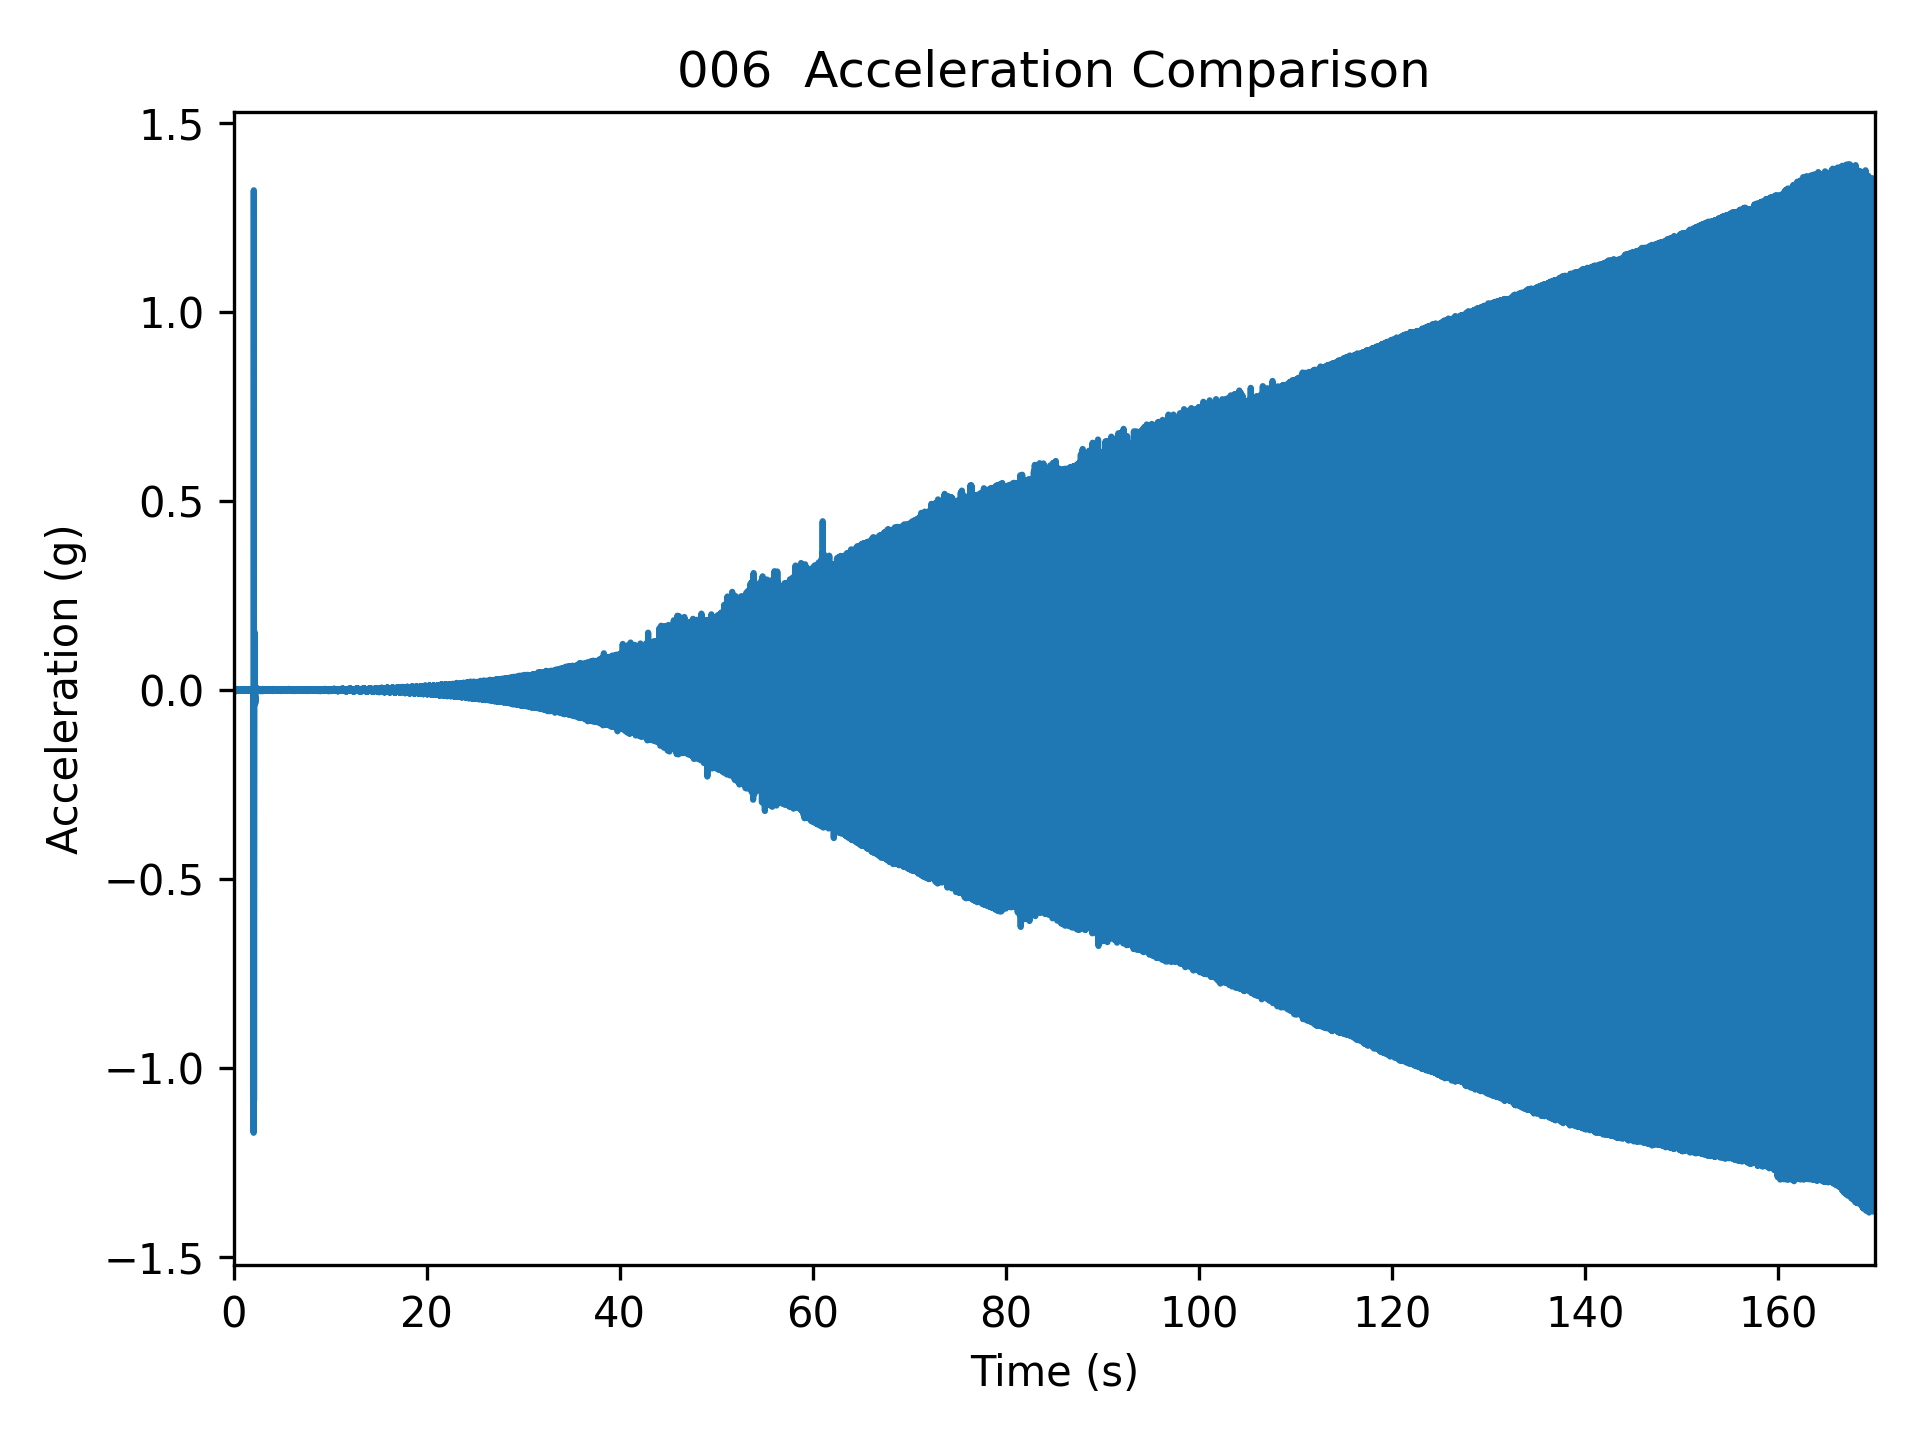
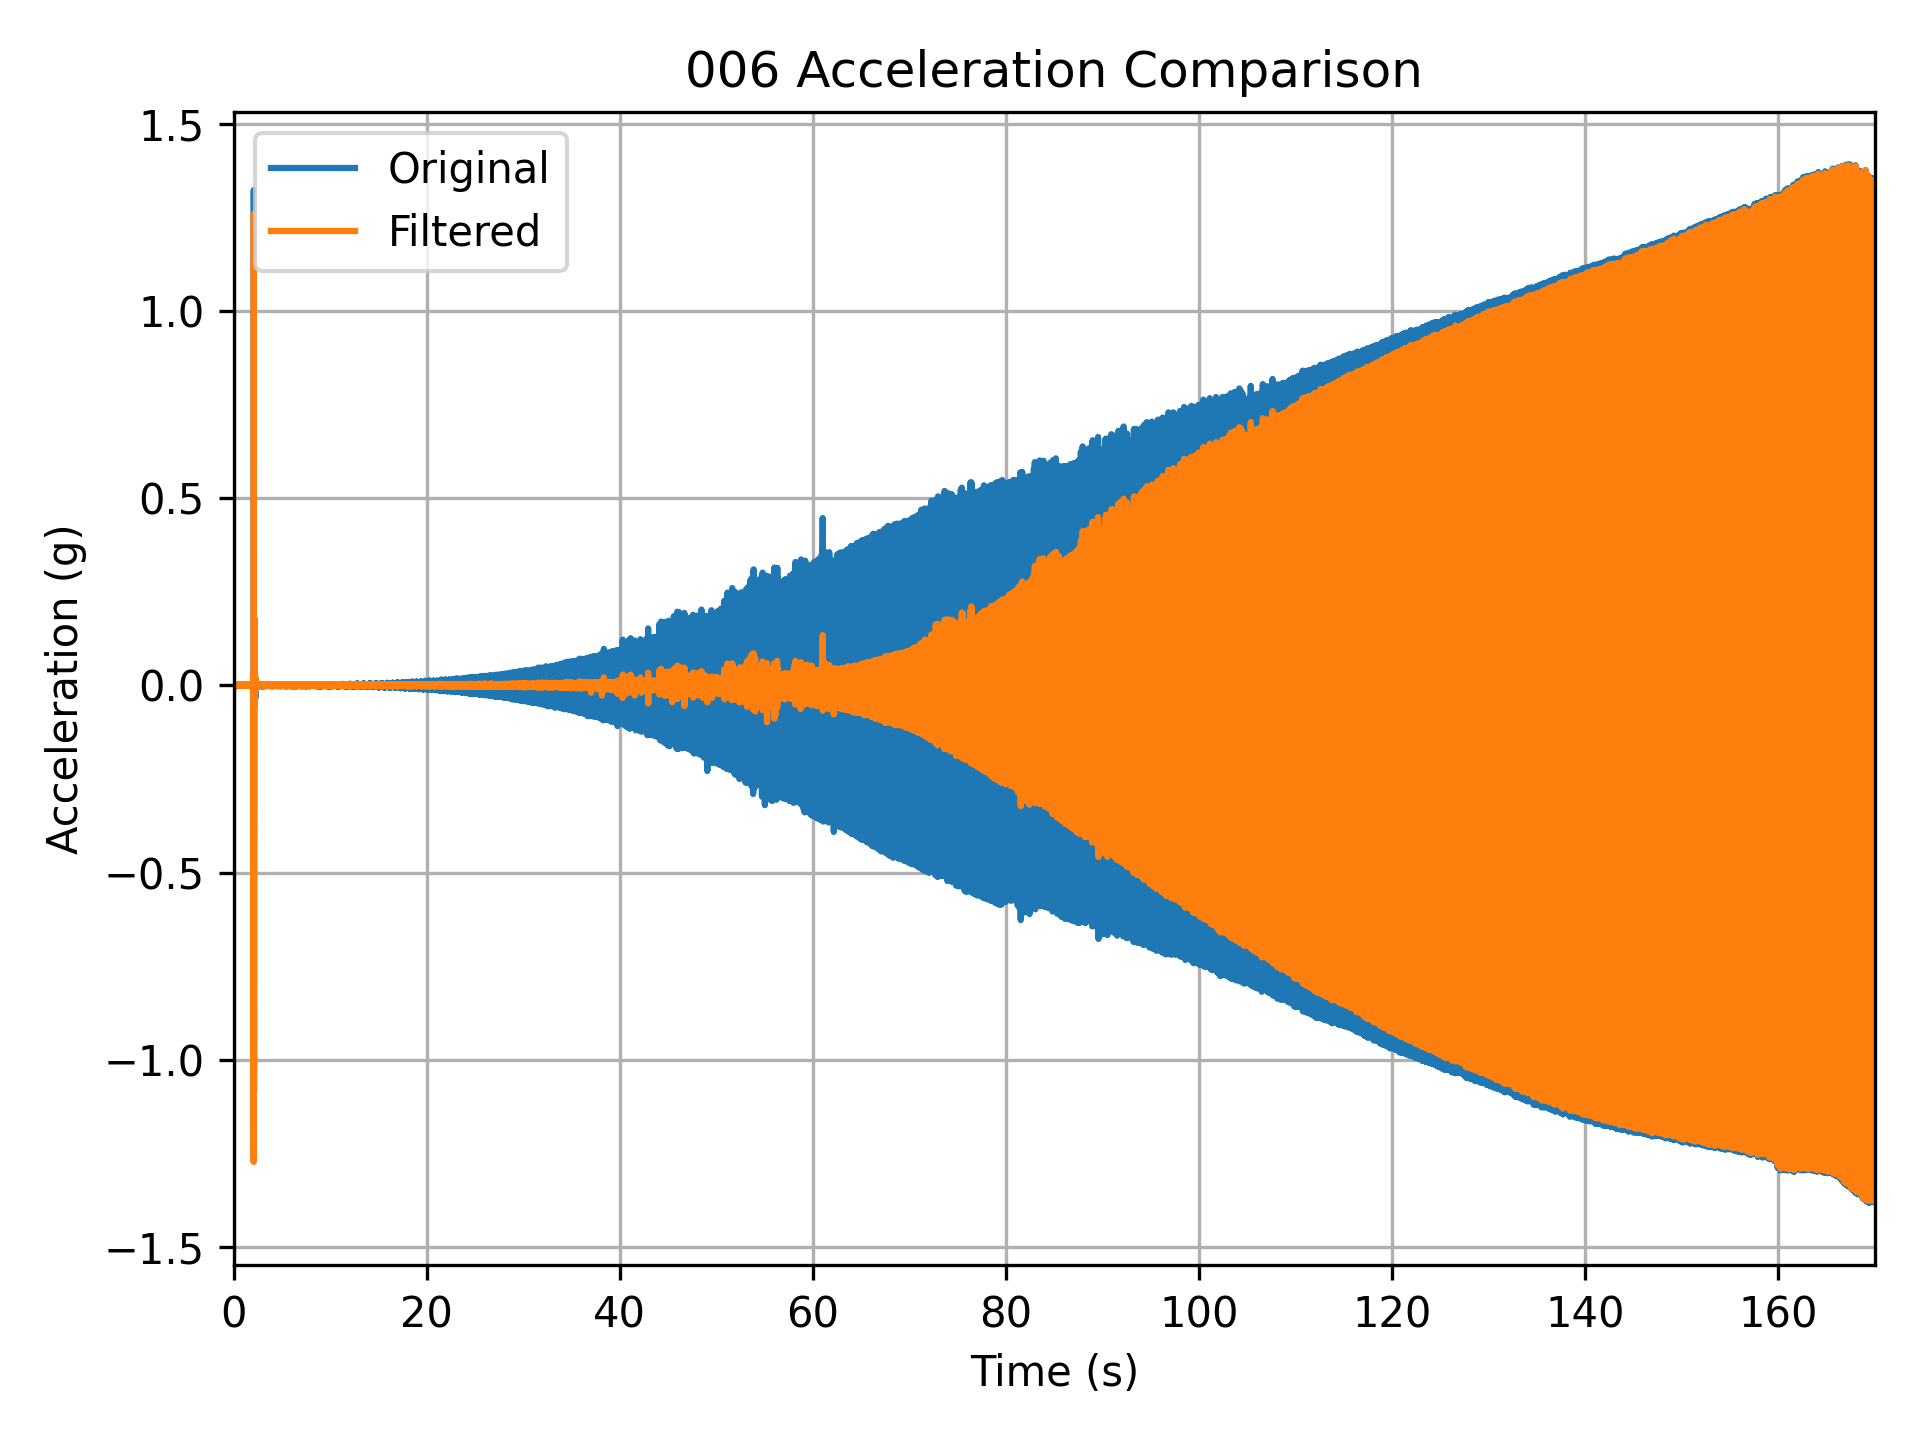
Plotting filtered vs original

diff --git a/system_design/International Gateway/V0.1/Software/Arduino/Shaker Data Collection/dataset_collection/Shaker Data Graphing Code.py b/system_design/International Gateway/V0.1/Software/Arduino/Shaker Data Collection/dataset_collection/Shaker Data Graphing Code.py
@@ -10,7 +10,7 @@ plt.close('all')
 
 
 #%% Load data
-file1 = 'D:/006.csv'
+file1 = 'E:/006.csv'
 
 def highpass_filter(signal, cutoff, fs, order=4):
     # note to self: signal as in acceleration values (ac), 
@@ -41,80 +41,87 @@ def process_data(filepath):
     ac_filtered = highpass_filter(ac, cutoff=10, fs=fs)
 
     # FFT computation
-    N = len(ac_filtered)                         # number of samples
-    Y = np.fft.fft(ac_filtered)         # FFT
-    f = np.fft.fftfreq(N, d=dt)         # frequency vector
+    N = len(ac)                                    # number of samples
+    Y_original = np.fft.fft(ac)
+    Y_filtered = np.fft.fft(ac_filtered)           # FFT
+    f = np.fft.fftfreq(N, d=dt)                    # frequency vector
 
     # Take only positive frequencies
     mask = f >= 0
     f = f[mask]
-    Y = Y[mask]
+    Y_original = Y_original[mask]
+    Y_filtered = Y_filtered[mask]
     # Amplitude (normalize)
-    A = np.abs(Y) / N
+    A_original = np.abs(Y_original) / N
+    A_filtered = np.abs(Y_filtered) / N
 
     # Convert to dB scale
-    A_dB = 20 * np.log10(A + 1e-12)
-    return tt, ac, ac_filtered, f, A, A_dB
+    A_original_dB = 20 * np.log10(A_original + 1e-12)
+    A_filtered_dB = 20 * np.log10(A_filtered + 1e-12)
+    return (tt, ac, ac_filtered, f, A_original, A_filtered,
+            A_original_dB, A_filtered_dB)
 
 
 #%% Process both files
-tt1, ac1, ac1_filtered, f1, A1, A1_dB = process_data(file1)
+(tt1, ac1, ac1_filtered, f1, 
+A1_original, A1_filtered,
+A1_original_dB, A1_filtered_dB) = process_data(file1)
 
 # size of plot figure (think of it like the measuremetns of a sheet of paper)
 plt.figure(figsize=(6.5,3))
 
 # FFT vs Spectrogram: FFT -> what frequencies exist overall, Spectrogram -> how frequency changes over time
 plt.figure(1)
-plt.plot(f1, A1_dB)
-plt.grid(True)
+plt.plot(f1, A1_original_dB, label='Original')
+plt.plot(f1, A1_filtered_dB, label='Filtered')
 plt.ylabel('Amplitude (dB)')
 plt.xlabel('Frequency (Hz)')
+plt.legend()
 plt.title('006 FFT Spectrum Comparison')
+plt.grid(True)
 # Zoom near region of interest
-plt.xlim(0,200) # up to Nyquist (fs/2 = 200)
+plt.xlim(0,30) # up to Nyquist (fs/2 = 200)
 plt.ylim(-170,-30)
 #Find and mark peak
-peak_idx1 = np.argmax(A1)
-plt.plot(f1[peak_idx1], A1_dB[peak_idx1], 'ro')
-plt.text(f1[peak_idx1] + 2, A1_dB[peak_idx1], f'{f1[peak_idx1]:.1f} Hz', color = 'red')
+# peak_idx1 = np.argmax(A1_filtered)
+# plt.plot(f1[peak_idx1], A1_filtered_dB[peak_idx1], 'ro')
+# plt.text(f1[peak_idx1] + 2, A1_filtered_dB[peak_idx1], f'{f1[peak_idx1]:.1f} Hz', color = 'red')
 plt.tight_layout()
 plt.savefig('C:/Users/giese/OneDrive/Documents/GitHub/Drone-Delivered-Vibration-Sensor/system_design/International Gateway/V0.1/Software/Arduino/Shaker Data Collection/006_FFT_Spectrum_Comparison.png')
 
 window_size = 10
-A1_smooth = np.convolve(A1_dB, np.ones(window_size)/window_size, mode='same')
+A1_original_smooth = np.convolve(A1_original_dB, np.ones(window_size)/window_size, mode='same')
+A1_filtered_smooth = np.convolve(A1_filtered_dB, np.ones(window_size)/window_size, mode='same')
 
 plt.figure(5)
-plt.plot(f1, A1_smooth)
+plt.plot(f1, A1_original_smooth, label='Original')
+plt.plot(f1, A1_filtered_smooth, label='Filtered')
+plt.legend()
 plt.grid(True)
 plt.ylabel('Amplitude (dB)')
 plt.xlabel('Frequency (Hz)')
 plt.title('006 FFT Smoothed Spectrum Comparison')
 # Zoom near region of interest
-plt.xlim(0,200) # up to Nyquist (fs/2 = 200)
+plt.xlim(0,30) # up to Nyquist (fs/2 = 200)
 plt.ylim(-170,-30)
 #Find and mark peak
-peak_idx1 = np.argmax(A1_smooth)
-plt.plot(f1[peak_idx1], A1_smooth[peak_idx1], 'ro')
-plt.text(f1[peak_idx1] + 2, A1_smooth[peak_idx1], f'{f1[peak_idx1]:.1f} Hz', color = 'red')
+# peak_idx1 = np.argmax(A1_filtered_smooth)
+# plt.plot(f1[peak_idx1], A1_filtered_smooth[peak_idx1], 'ro')
+# plt.text(f1[peak_idx1] + 2, A1_filtered_smooth[peak_idx1], f'{f1[peak_idx1]:.1f} Hz', color = 'red')
 plt.tight_layout()
 plt.savefig('C:/Users/giese/OneDrive/Documents/GitHub/Drone-Delivered-Vibration-Sensor/system_design/International Gateway/V0.1/Software/Arduino/Shaker Data Collection/006_FFT_Smoothed_Spectrum_Comparison.png')
 
 plt.figure(2)
-plt.plot(tt1, ac1)
-plt.xlabel('Time (s)')
-plt.ylabel('Acceleration (g)')
-plt.xlim(100,100.5)
-plt.title('006 Zoomed Acceleration Comparison')
-plt.tight_layout() # makes sure plot is neat and sizings work together
-plt.savefig('C:/Users/giese/OneDrive/Documents/GitHub/Drone-Delivered-Vibration-Sensor/system_design/International Gateway/V0.1/Software/Arduino/Shaker Data Collection/006_100_Acceleration_Comparison.png', dpi=300)
-
-plt.figure(6)
 plt.plot(tt1, ac1, label='Original')
-plt.plot(tt1, ac1_filtered, label='High Pass Filtered')
+plt.plot(tt1, ac1_filtered, label='Filtered')
 plt.xlabel('Time (s)')
 plt.ylabel('Acceleration (g)')
+plt.xlim(0,170)
+plt.title('006 Acceleration Comparison')
 plt.legend()
 plt.grid(True)
+plt.tight_layout() # makes sure plot is neat and sizings work together
+plt.savefig('C:/Users/giese/OneDrive/Documents/GitHub/Drone-Delivered-Vibration-Sensor/system_design/International Gateway/V0.1/Software/Arduino/Shaker Data Collection/006_Acceleration_Comparison.png', dpi=300)
 
 
 # # Spectrogram